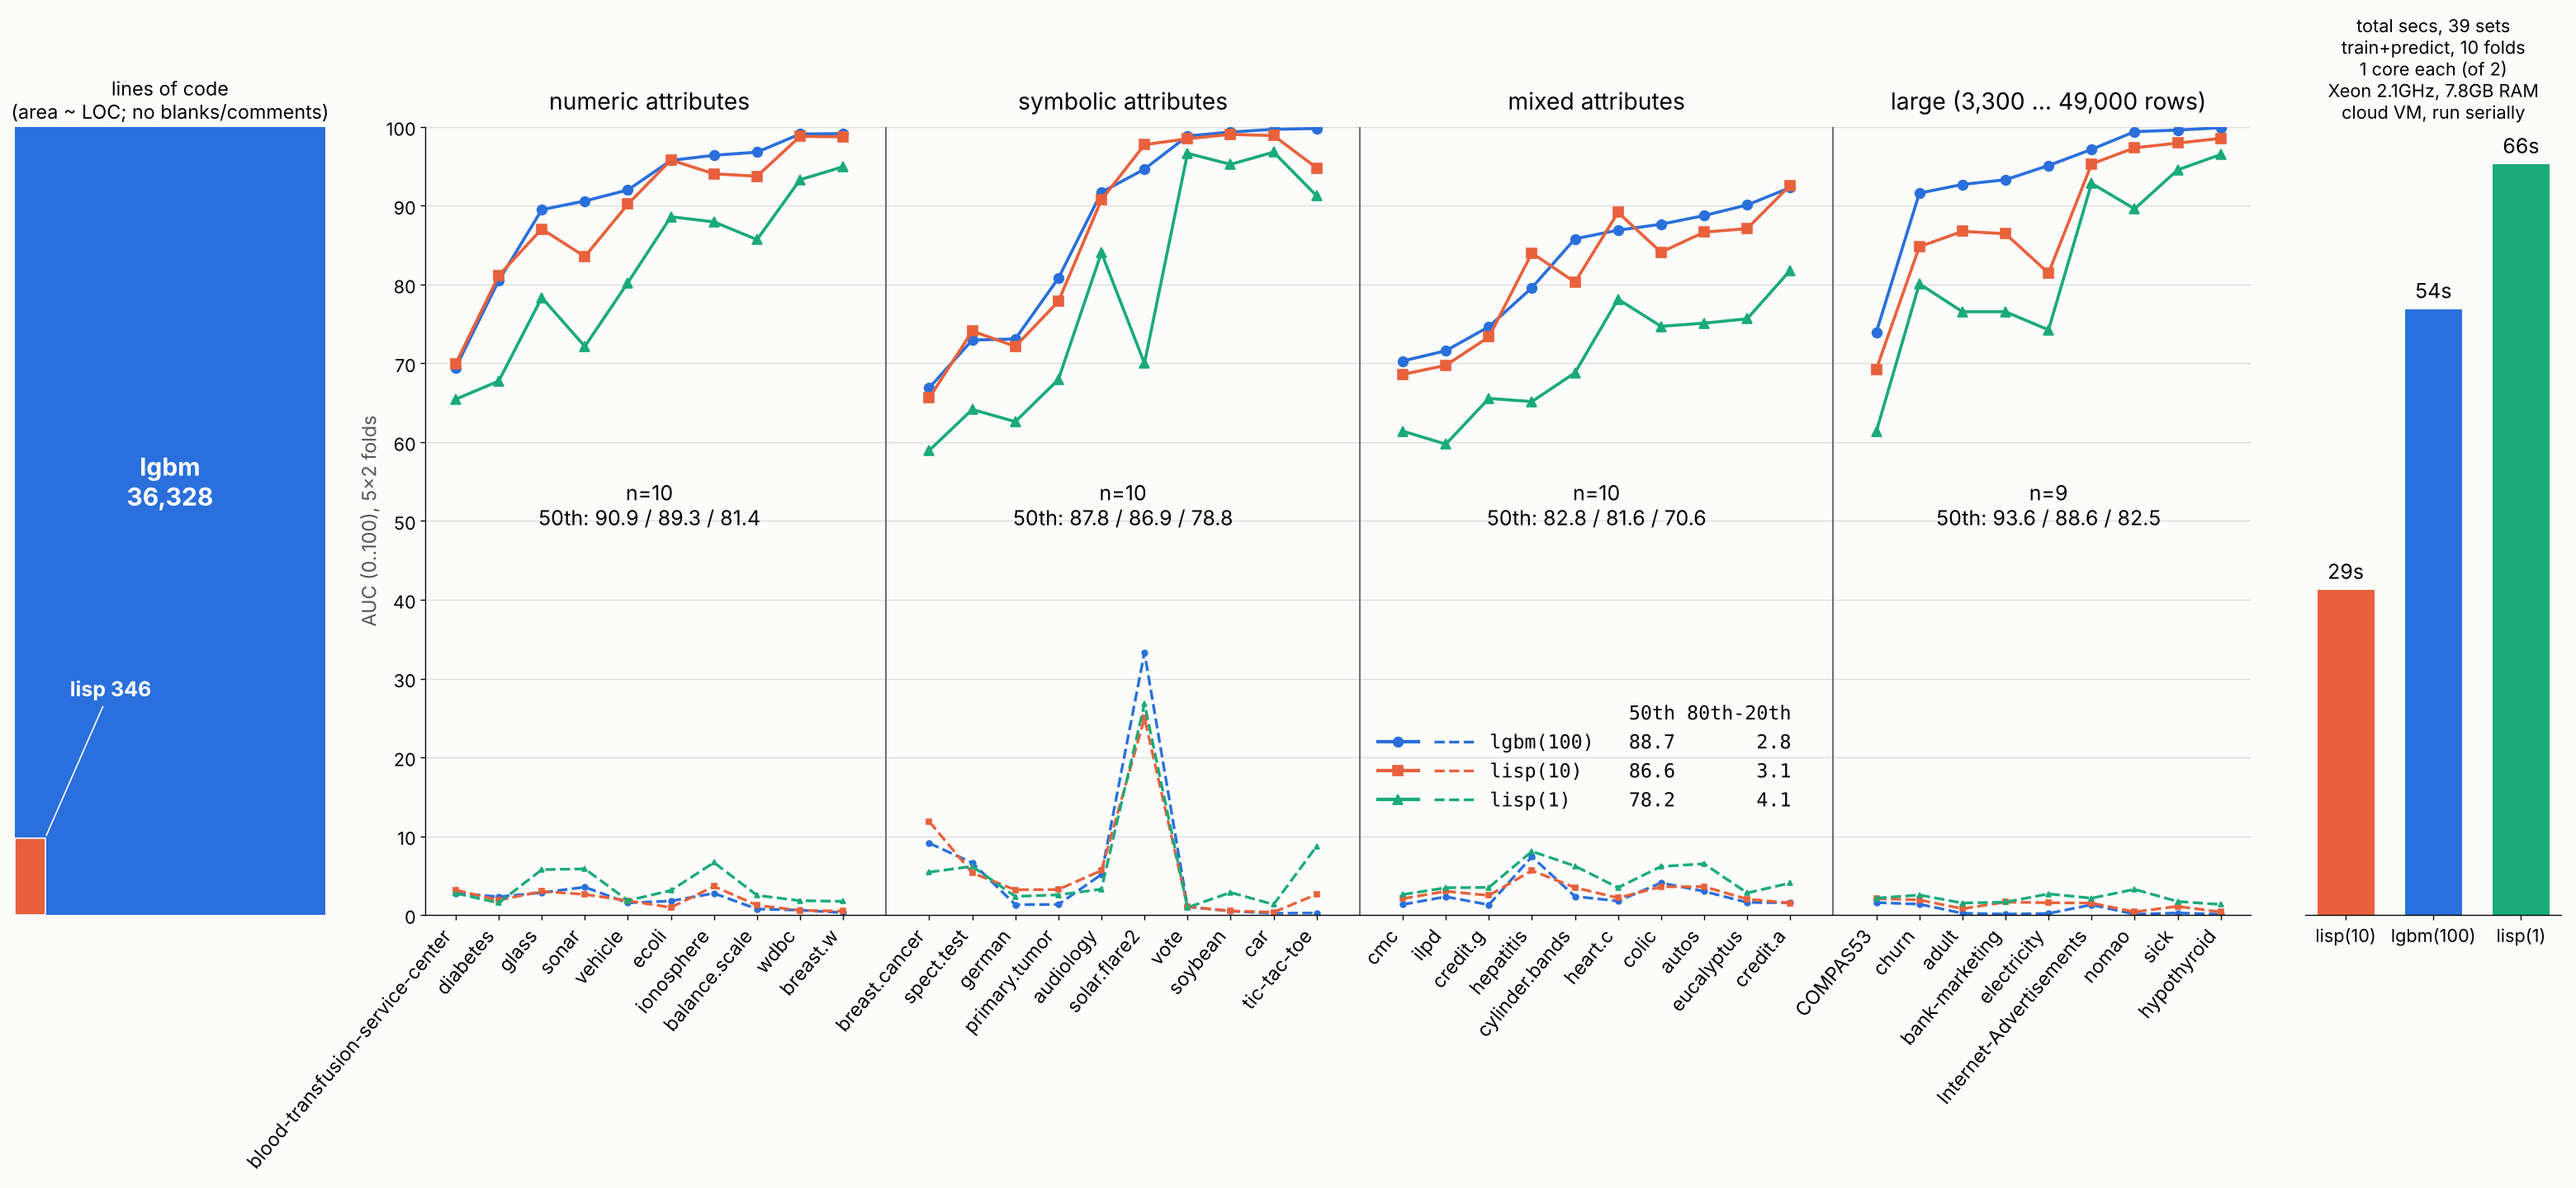
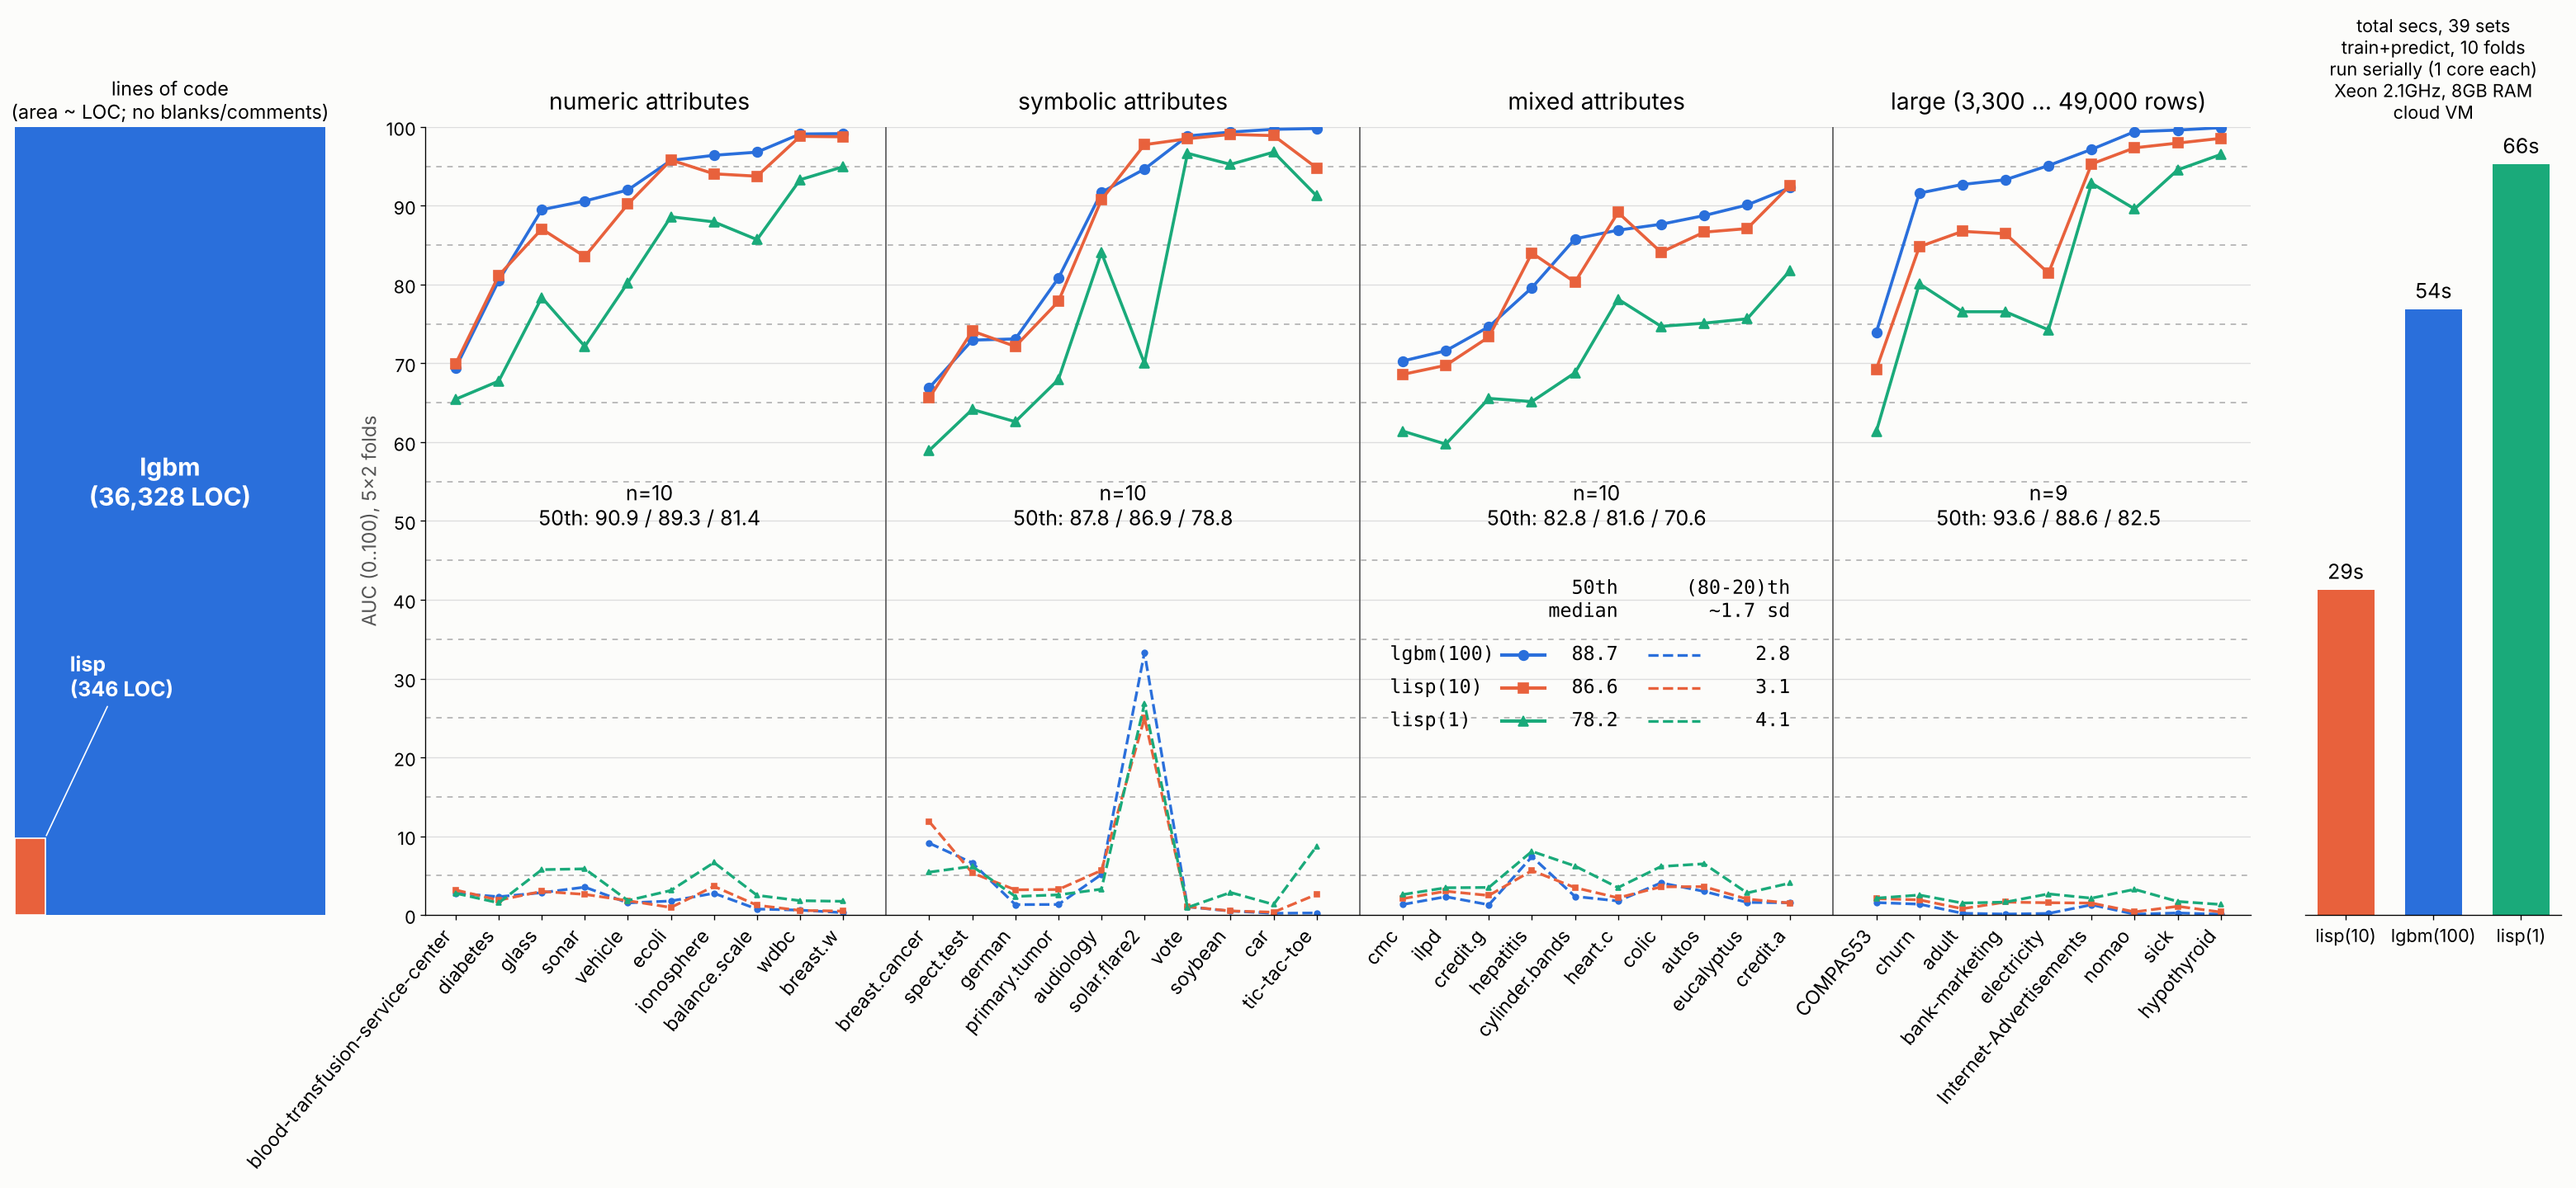
hair: ens.png table legend, median/~1.7sd headers, minor dashed grid, LOC labels, hardware note
Claude-Session: https://claude.ai/code/session_01K96br6KpZV41b68voqix8z

diff --git a/hair/plot.py b/hair/plot.py
@@ -24,7 +24,7 @@ for gi,(g,fs) in enumerate(G):
   fs=sorted(fs,key=lambda f:d[f][2]); xs=np.arange(x0,x0+len(fs))
   for name,j,c,m in T:
     ys=[d[f][j] for f in fs]
-    lab=f"{name:<10}{np.mean([d[f][j] for f in order]):6.1f}{np.mean([sp[f][j] for f in order]):10.1f}"
+    lab=f"{name:<10}{np.mean([d[f][j] for f in order]):8.1f}{np.mean([sp[f][j] for f in order]):13.1f}"
     ax.plot(xs,ys,color=c,marker=m,lw=2.2,ms=7)
     if gi==0: H.append(((plt.Line2D([],[],color=c,lw=2.5,marker=m,ms=7),plt.Line2D([],[],color=c,lw=2,ls="--")),lab))
     iq=[sp[f][j] for f in fs]
@@ -37,28 +37,35 @@ for gi,(g,fs) in enumerate(G):
   if gi<3: ax.axvline(x0-1,color="#555",lw=1)
 ax.set_xticks(ticks); ax.set_xticklabels(labs,rotation=50,ha="right",fontsize=14)
 ax.set_ylim(0,100); ax.set_xlim(-.7,x0-1.3); ax.set_yticks(range(0,101,10))
-ax.grid(axis="y",color="#ddd"); ax.set_ylabel("AUC (0..100), 5x2 folds",color="#555",fontsize=14); ax.tick_params(axis="y",labelsize=13)
+ax.set_yticks(range(5,100,10),minor=True); ax.tick_params(axis="y",which="minor",length=0)
+ax.grid(axis="y",which="major",color="#ddd"); ax.grid(axis="y",which="minor",color="#b0b0b0",ls=(0,(4,4)),lw=1); ax.set_ylabel("AUC (0..100), 5x2 folds",color="#555",fontsize=14); ax.tick_params(axis="y",labelsize=13)
 
 for s in ("top","right"): ax.spines[s].set_visible(False)
 from matplotlib.legend_handler import HandlerTuple
-hd=f"{'':<10}{'50th':>6}{'80th-20th':>10}"
-H.insert(0,((plt.Line2D([],[],alpha=0),),hd))
-lg=ax.legend(*zip(*[(h,l) for h,l in H]),handler_map={tuple:HandlerTuple(ndivide=None,pad=.8)},handlelength=5,
-   loc="lower center",bbox_to_anchor=(.635,.11),
-   frameon=False,prop={"family":"monospace","size":14},title_fontproperties={"family":"monospace","size":14})
-lg._legend_box.align="left"
+# legend as a table in panel 3: name | solid 50th | dashed (80-20)th
+X0=22; mono=dict(family="monospace",fontsize=14)
+ax.add_patch(plt.Rectangle((X0-.5,22.6-4.2),9.8,25,fc="#fcfcfa",ec="none",zorder=1.5))
+ax.text(X0+5.0,37,"50th\nmedian",ha="right",va="bottom",**mono)
+ax.text(X0+9.0,37,"(80-20)th\n~1.7 sd",ha="right",va="bottom",**mono)
+for k,(h,lab) in enumerate(H):
+  y=33-4.2*k; c=h[0].get_color(); m=h[0].get_marker(); name,med,spr=lab.split()
+  ax.text(X0-.3,y,name,ha="left",va="center",**mono)
+  ax.plot([X0+2.3,X0+3.3],[y,y],color=c,lw=2.5); ax.plot(X0+2.8,y,m,color=c,ms=7)
+  ax.text(X0+5.0,y,med,ha="right",va="center",**mono)
+  ax.plot([X0+5.7,X0+6.9],[y,y],color=c,lw=2,ls="--")
+  ax.text(X0+9.0,y,spr,ha="right",va="center",**mono)
 bt=sorted([(sec[j],n,c) for n,j,c,_ in T])
 bx.bar(range(3),[b[0] for b in bt],color=[b[2] for b in bt],width=.65)
 for i,b in enumerate(bt): bx.text(i,b[0]+1,f"{b[0]:.0f}s",ha="center",fontsize=15)
 bx.set_xticks(range(3)); bx.set_xticklabels([b[1] for b in bt],fontsize=13)
-bx.set_title("total secs, 39 sets\ntrain+predict, 10 folds\n1 core each (of 2)\nXeon 2.1GHz, 7.8GB RAM\ncloud VM, run serially",fontsize=13)
+bx.set_title("total secs, 39 sets\ntrain+predict, 10 folds\nrun serially (1 core each)\nXeon 2.1GHz, 8GB RAM\ncloud VM",fontsize=13)
 bx.set_yticks([]); bx.set_facecolor("#fcfcfa")
 for sp in ("top","right","left"): bx.spines[sp].set_visible(False)
 LOC=[("lisp",346,"#e8613c"),("lgbm",36328,"#2a6fdb")]  # see docstring
 (ln,lv,lc),(gn,gv,gc)=LOC; r=(lv/gv)**.5          # areas ~ LOC
 lx.add_patch(plt.Rectangle((0,0),1,1,color=gc)); lx.add_patch(plt.Rectangle((0,0),r,r,color=lc,ec="white",lw=1))
-lx.text(.5,.55,f"{gn}\n{gv:,}",ha="center",va="center",color="white",fontsize=18,weight="bold")
-lx.annotate(f"{ln} {lv:,}",(r,r),(r+.08,r+.18),color="white",fontsize=15,weight="bold",
+lx.text(.5,.55,f"{gn}\n({gv:,} LOC)",ha="center",va="center",color="white",fontsize=18,weight="bold")
+lx.annotate(f"{ln}\n({lv:,} LOC)",(r,r),(r+.08,r+.18),color="white",fontsize=15,weight="bold",
             arrowprops=dict(arrowstyle="-",color="white"))
 lx.set_xlim(0,1); lx.set_ylim(0,1); lx.set_xticks([]); lx.set_yticks([])
 lx.set_title("lines of code\n(area ~ LOC; no blanks/comments)",fontsize=14); lx.set_facecolor("#fcfcfa")
